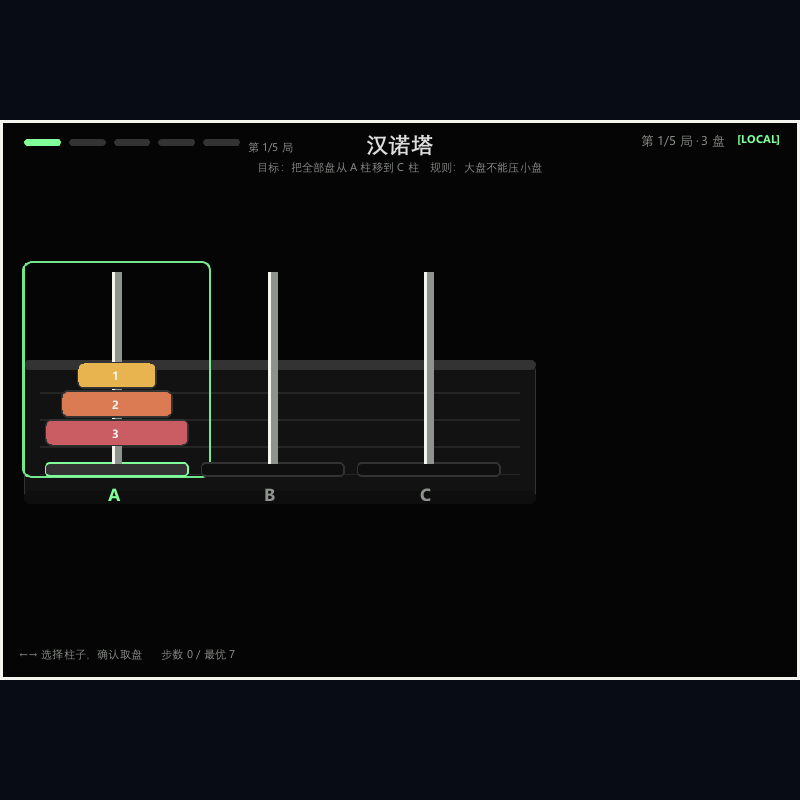
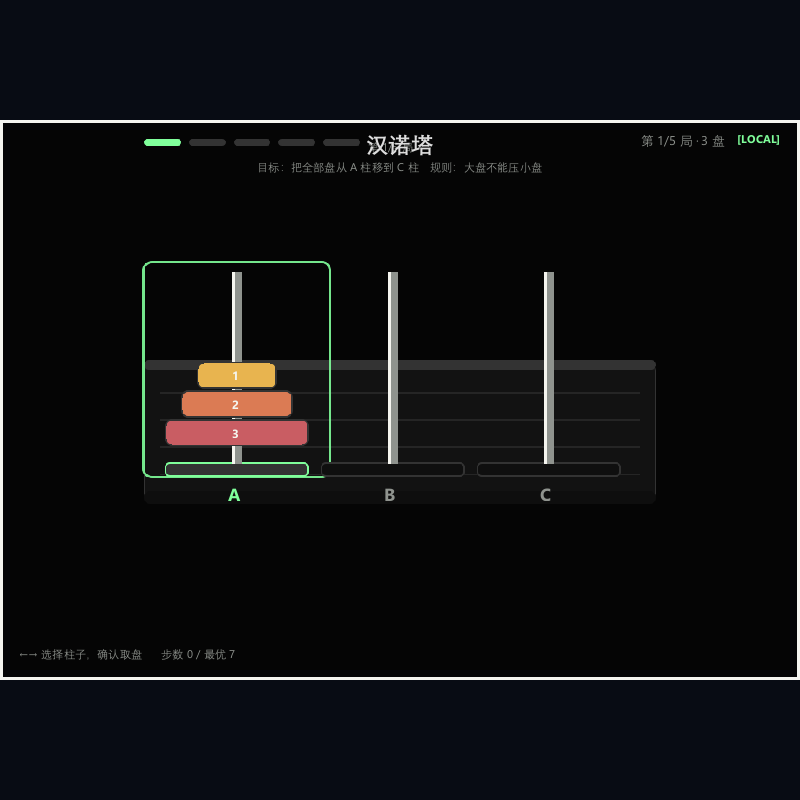
style(ui): polish layout balance for full-bleed scenes
Screenshot review fixes:
- hanoi: center a 700px stage so pegs sit mid-frame instead of
  hugging the left edge; peg hit areas now have real geometry
  (previously zero-size MouseArea anchored to parent item).
- sokoban: board centers dynamically in the full-bleed scene.
- claw: bottom controls get 32px side margins; status texts get
  dark raised outline for readability over toys.
- traffic: side panel and phase banners flattened (no rounded
  card fill), consistent with the flat full-bleed language.

All seven games re-smoked EXIT 0; screenshots refreshed.

diff --git a/hanoi/Main.qml b/hanoi/Main.qml
@@ -278,6 +278,13 @@ Item {
             color: "transparent"
             clip: true
 
+            // 固定 700 宽的舞台，水平居中：全出血后内容不偏左
+            Item {
+                id: stage
+                width: 700
+                height: parent.height
+                anchors.horizontalCenter: parent.horizontalCenter
+
             // 中央平台
             Rectangle {
                 x: 30; y: 300; width: 640; height: 180
@@ -301,9 +308,11 @@ Item {
                     readonly property bool isFocused: index === root.focusPole
                     readonly property bool isLegalTarget: root.heldDisc >= 0 && (root.topOf(index) === 0 || root.heldDisc < root.topOf(index))
                     readonly property real cx: root.pegCenterX[index]
+                    x: cx - 90; y: 176
+                    width: 180; height: 300
 
                     Rectangle {
-                        x: pegItem.cx - 90; y: 428
+                        x: 0; y: 252
                         width: 180; height: 18; radius: 6
                         color: pegItem.isFocused ? uiTheme.panelBorder : Qt.darker(uiTheme.panel, 1.2)
                         border.width: 2
@@ -315,20 +324,20 @@ Item {
                         }
                     }
                     Rectangle {
-                        x: pegItem.cx - 6; y: 190
+                        x: 84; y: 14
                         width: 12; height: 240
                         color: uiTheme.secondaryText
                         Rectangle { x: 0; y: 0; width: 4; height: 240; color: uiTheme.primaryText }
                     }
                     Text {
-                        x: pegItem.cx - 10; y: 452
+                        x: 80; y: 276
                         text: root.pegLabels[pegItem.index]
                         color: pegItem.isFocused ? uiTheme.primary : uiTheme.secondaryText
                         font.pixelSize: 22; font.family: uiTheme.fontFamily; font.bold: true
                     }
                     Rectangle {
                         visible: pegItem.isFocused
-                        x: pegItem.cx - 118; y: 176
+                        x: -28; y: 0
                         width: 236; height: 272
                         radius: 12
                         color: "transparent"
@@ -440,6 +449,7 @@ Item {
                         color: uiTheme.success; font.pixelSize: 14; font.family: uiTheme.fontFamily
                     }
                 }
+            }
             }
         }
 

diff --git a/traffic/Main.qml b/traffic/Main.qml
@@ -1017,7 +1017,7 @@ Item {
                         visible: root.phase === "level_intro"
                         anchors.centerIn: parent
                         width: 400; height: 116
-                        radius: 12
+                        radius: 4
                         color: uiTheme.panel
                         opacity: 0.96
                         border.width: 2
@@ -1044,7 +1044,7 @@ Item {
                         visible: root.phase === "hit"
                         anchors.centerIn: parent
                         width: 360; height: 104
-                        radius: 12
+                        radius: 4
                         color: uiTheme.panel
                         border.width: 2
                         border.color: uiTheme.danger
@@ -1069,7 +1069,7 @@ Item {
                         visible: root.phase === "level_clear"
                         anchors.centerIn: parent
                         width: 360; height: 104
-                        radius: 12
+                        radius: 4
                         color: uiTheme.panel
                         border.width: 2
                         border.color: uiTheme.success
@@ -1094,8 +1094,7 @@ Item {
                 Rectangle {
                     x: 740; y: 104
                     width: 236; height: root.sceneH
-                    radius: 12
-                    color: uiTheme.panel
+                    color: "transparent"
                     border.color: uiTheme.panelBorder; border.width: 1
 
                     Column {

diff --git a/claw/Main.qml b/claw/Main.qml
@@ -524,6 +524,7 @@ Item {
                 color: root.phase === "aligning"
                        ? uiTheme.secondaryText
                        : (root.lastJudgedSuccess ? uiTheme.success : uiTheme.danger)
+                style: Text.Raised; styleColor: "#050505"
                 font.pixelSize: 18; font.bold: true; font.family: uiTheme.fontFamily
             }
 
@@ -539,6 +540,7 @@ Item {
                     .arg(root.lastNormalizedError.toFixed(2))
                     .arg(root.lastJudgedSuccess ? qsTr("成功") : qsTr("失败"))
                 color: root.lastJudgedSuccess ? uiTheme.success : uiTheme.danger
+                style: Text.Raised; styleColor: "#050505"
                 font.pixelSize: 14
                 font.family: uiTheme.fontFamily
             }
@@ -548,8 +550,9 @@ Item {
         Row {
             parent: frame.bottomBar
             anchors.fill: parent
-            anchors.leftMargin: 16
-            anchors.rightMargin: 16
+            anchors.leftMargin: 32
+            anchors.rightMargin: 32
+            anchors.topMargin: 8
             spacing: 16
 
             // 方向键

diff --git a/sokoban/Main.qml b/sokoban/Main.qml
@@ -437,14 +437,15 @@ Item {
 
         // 主场景
         Rectangle {
+            id: boardScene
             parent: frame.contentItem
             anchors.fill: parent
             color: "transparent"
             clip: true
 
             readonly property real cell: Math.min(620 / Math.max(1, root.cols), 420 / Math.max(1, root.rows))
-            readonly property real gridX: (700 - cell * root.cols) / 2
-            readonly property real gridY: 40 + (420 - cell * root.rows) / 2
+            readonly property real gridX: (boardScene.width - cell * root.cols) / 2
+            readonly property real gridY: 60 + (boardScene.height - 60 - cell * root.rows) / 2
 
             // 地板与墙体
             Repeater {
